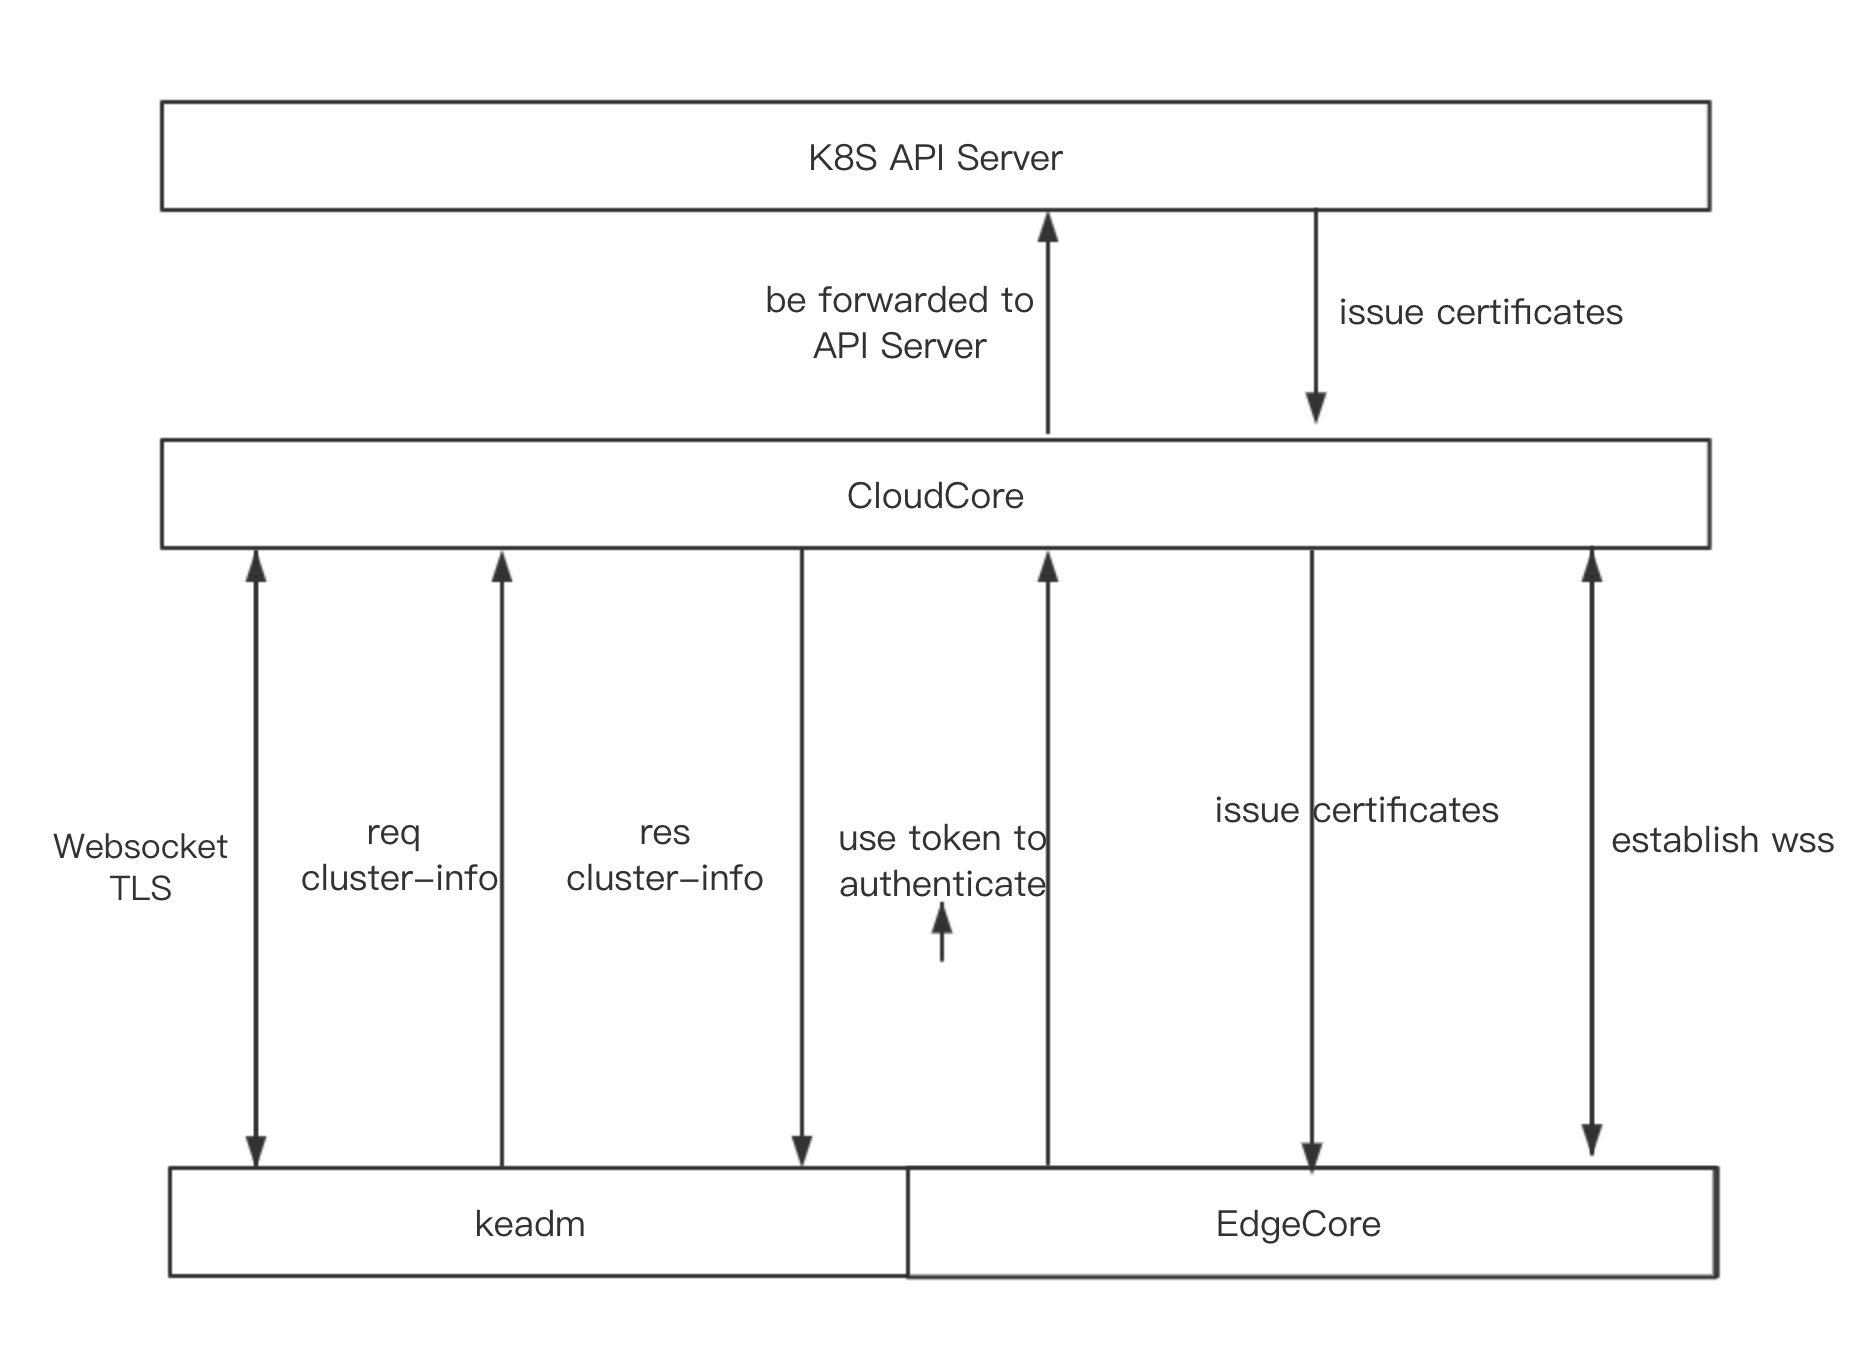
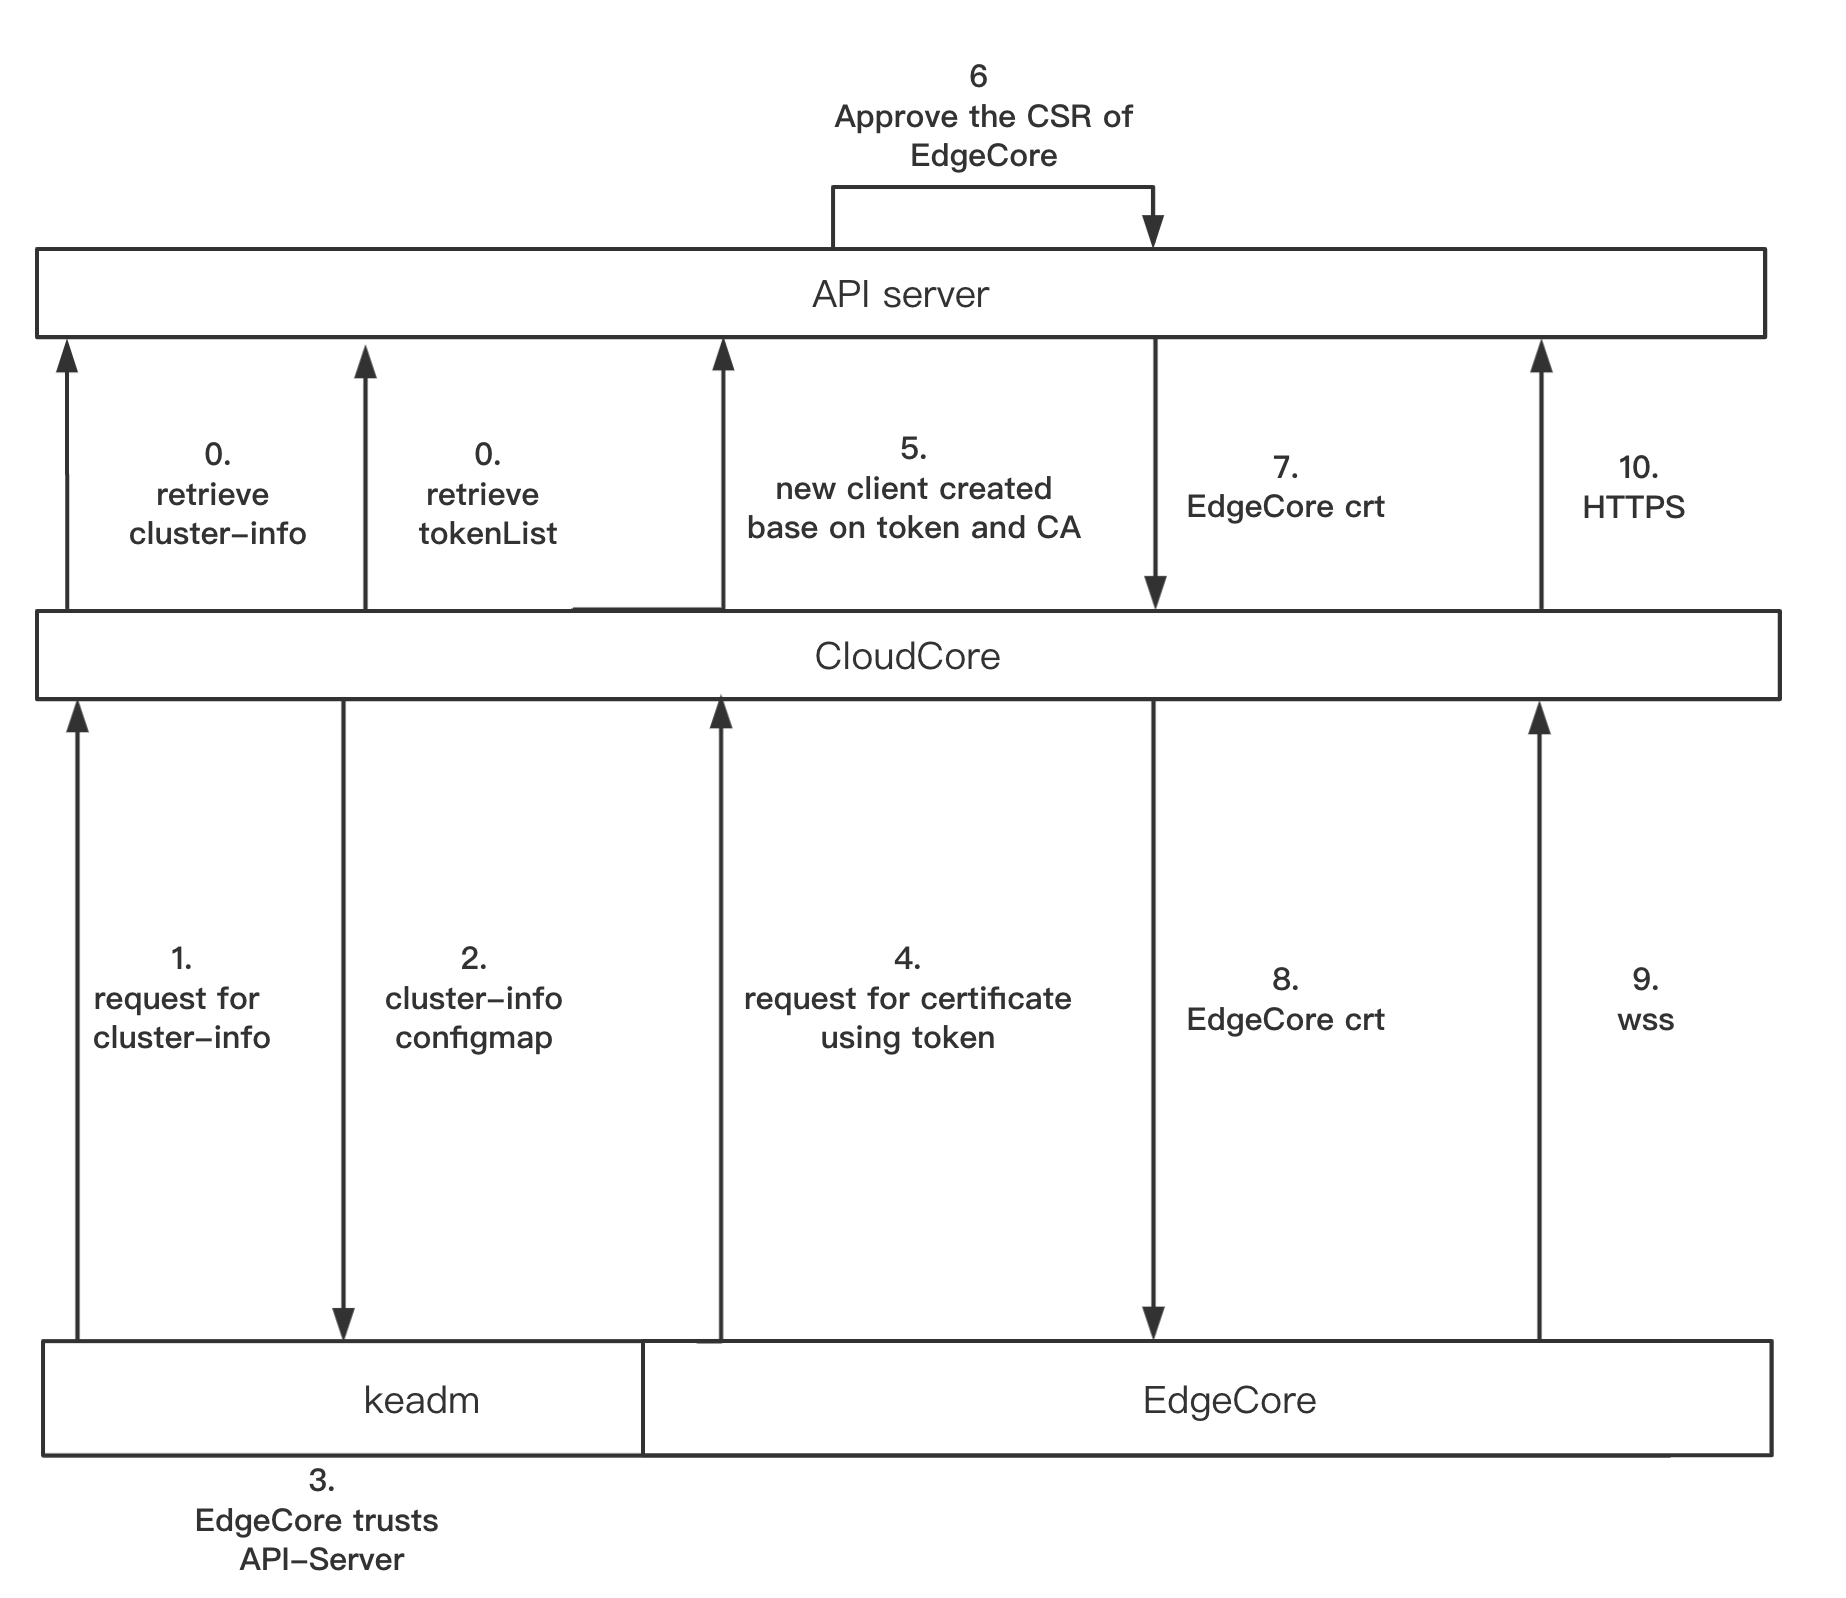
new version0318

diff --git a/proposals/edge-authentication.md b/proposals/edge-authentication.md
@@ -10,7 +10,7 @@ approvers:
   - "@kadisi"
 
 creation-date: 2020-02-06
-last-updated: 2020-02-06
+last-updated: 2020-03-18
 status: alpha
 
 ---
@@ -19,59 +19,84 @@ status: alpha
 
 ## motivation
 
-The current connection between EdgeCore and CloudCore, that is, the authentication and authorization of the edge node to the cloud requires manual replication of the certificate, which has poor scalability and flexibility. And this root certificate is not within the K8S native authentication and authorization system and requires additional maintenance.
+The current connection between EdgeCore and CloudCore, that is, the authentication and authorization of the edge node to the cloud requires manual replication of the certificate, which has poor scalability and flexibility. And this root certificate is not within the k8s native authentication and authorization system and requires additional maintenance.
 
 ## goal
 
-To implement that edge nodes automatically apply for a certificate when joining the cluster, and k8s api server approves the certificate.
+To implement that edge nodes automatically apply for a certificate when joining the cluster, and k8s API server approves the certificate, then they can  establish mutual authentication TLS with CloudCore.
 
 ## design detail
 
+We implement the auto authentication based on the kubeedge installer keadm. The design idea is to reuse the k8s authentication mechanism.
+
+### keadm init
+
+In this command, we add the step of creating token following the example of kubeadm(token is stored in etcd as a secret). The token is **only** have the rights of making a Certificate Signing Request(CSR) which is used when edge nodes apply to join the cluster.
+
+Note: This token will be expired after 24 hours. Then you can get a new one running `keadm token create`.
+
+And this token only has the rights of applying for a node certificate in k8s cluster.
+
+when CloudCore starts, it gets `cluster info` configmap from API server and calculates a hash code which is named discovery-token-ca-cert-hash and used to join to cluster by EdgeCore.
+
+```shell
+curl -k -v -XGET  -H "Accept: application/json, */*" -H "User-Agent: kubeadm/v1.15.3 (linux/amd64) kubernetes/2d3c76f" 'https://<master ip:port>/api/v1/namespaces/kube-public/configmaps/cluster-info'
+```
+
+CloudCore also applies to the API server for token list to distinguish the valid token from invalid when edge nodes apply for the certificate.
+
+when the command `keadm init` finished,  It will show as following:
+
+```shell
+Then you can join any number of edge nodes by runnning the following on each node:
+keadm join --cloudcore-ipport=<ip:ipport address> --edgenode-name=<unique string as identifer> --token=<token id> --discovery-token-ca-cert-hash=<hash of cluster cert>
+```
+
+### keadm join
+
+The flags of command `keadm join` should add `--token` and `--discovery-token-ca-cert-hash` which are used to indicate edge identity and verify master identity respectively. So the current `keadm join` should be as follow:
+
+```shell
+keadm join --cloudcore-ipport=<ip:ipport address> --edgenode-name=<unique string as identifer> --token=<token id> --discovery-token-ca-cert-hash=<hash of cluster cert>
+```
+
+
+
 ![token.png](../images/edgeAuthentication/edge_authentication.jpg)
 
-Update the tool keadm to simplify the complexity of joining edge nodes to the cluster.
+#### 1. discovery cluster-info
 
-Firstly, Keadm establishes a TLS connection with Cloudcore. Then keadm sends a request of cluster-info to CLoudCore. Then the CloudCore will return the cluster-info containing  a public Key to keadm. Based on the discovery-token-ca-cert-hash flag, Keadm can validate the public key of the root certificate authority (CA) presented by the CloudCore. Then EdgeCore uses token to authenticate API Server,and CloudCore will forward token to the APIServer and forward a certificate to EdgeCore.If successful,EdgeCore and CloudCore will establish a wss connection.
+**This step is to have the node trust the Kubernetes master.**
 
-#### cloudcore：
+Edgecore apply for `cluster-info` configmap from CloudCore. Then EdgeCore calculates the hashcode of cert to compare with flag discovery-token-ca-cert-hash to verify the master.
 
-	Cloudcore directly configures CA certificate and cloudcore certificate when accessing the api server. This cloudcore certificate is issued by a **same** CA with the edgecore certificate, so they can establish TLS.
-
-#### keadm join
-
-	Authentication is split into discovery (having the Node trust the Kubernetes Master) and TLS bootstrap (having the Kubernetes Master trust the Node).
-
-##### 	preflight checks
+#### 2. preflight checks
 
 Check version of OS and install subsequently the required pre-requisites using supported steps. Currently we will support **ONLY** (Ubuntu & CentOS)
 
-Check and install all the pre-requisites before executing edge-controller, which are
+Check and install all the pre-requisites, which are
 
-- Docker (currently 18.06.0ce3-0~ubuntu) and check is service is up.
-- mosquitto (latest available in OS repos) and check if running.
+- Docker (currently 18.06.0ce3-0~ubuntu) and check if service is up.
+- mosquitto (latest available in OS repos) and check if running
+- EdgeCore
+  - generate necessary config：edge.yaml and modules.yaml
+  - generate kubeconfig based on token and ca.crt：bootstrap-edge.conf
+  - run EdgeCore
 
-##### 	discovery clustor-info
 
-	`keadm join` is invoked with `--discovery-token`, token discovery is used; in this case the node basically retrieves the cluster CA certificates from the  `cluster-info` ConfigMap in the `kube-public` namespace.
 
-	In order to prevent "man in the middle" attacks, several steps are taken:
+The above two steps are done by keadm. Then next steps are by EdgeCore.
 
-+ First, the CA certificate is retrieved via **insecure connection** (note: this is possible because `kubeadm init` granted access to  `cluster-info` users for `system:unauthenticated` )
+#### 3. TLS bootstrap
 
-- Then the CA certificate goes through following validation steps:
-  - "Basic validation", using the token ID against a JWT signature
-  - "Pub key validation", using provided `--discovery-token-ca-cert-hash`. This value is available in the output of "keadm init" or can be calculated using standard tools (the hash is calculated over the bytes of the Subject Public Key Info (SPKI) object as in RFC7469). The `--discovery-token-ca-cert-hash flag` may be repeated multiple times to allow more than one public key.
-  - as a additional validation, the CA certificate is retrieved via secure connection and then compared with the CA retrieved initially
+**This step is to have API server trust the CloudCore.**
 
-##### TLS Bootstrap
+The EdgeCore generates a pair of keys. One of these which is named public key and other information are used to apply for a certificate. The other named private key is stored locally. 
 
-	Once the cluster info are known, the file `bootstrap-edge.conf` is written, allowing edgecore to do TLS Bootstrapping.
+Then EdgeCore sends CSR to CloudCore with its token. 
 
-	The TLS bootstrap mechanism uses the shared token to temporarily authenticate with the cloudcore to submit a certificate signing request (CSR) for a locally created key pair.
+Cloudcore then compares this token with its token list. If it is in the token list, Cloudcore will create a new client with token and ca.crt to communicate with API server. 
 
-**And the request is forwarded to k8s api-server**. Next controller manager approves the request and the operation completes saving `ca.crt` file and `edge.conf` file to be used by edgecore for joining the cluster, while`bootstrap-edge.conf` is deleted.
+API server passes the CSR to the component controller manager. The controller manager automaticly approves the request so the certificate of edge is OK. The Cloudcore then forward the certificate to the edge. 
 
-Please note that:
-
-- The temporary authentication is validated against the token
-- The temporary authentication resolve to a user member of  `system:bootstrappers:kadm:default-node-token` group which was granted access to CSR api
+From now on, the EdgeCore can establish mutual authentication TLS with Cloudcore.
